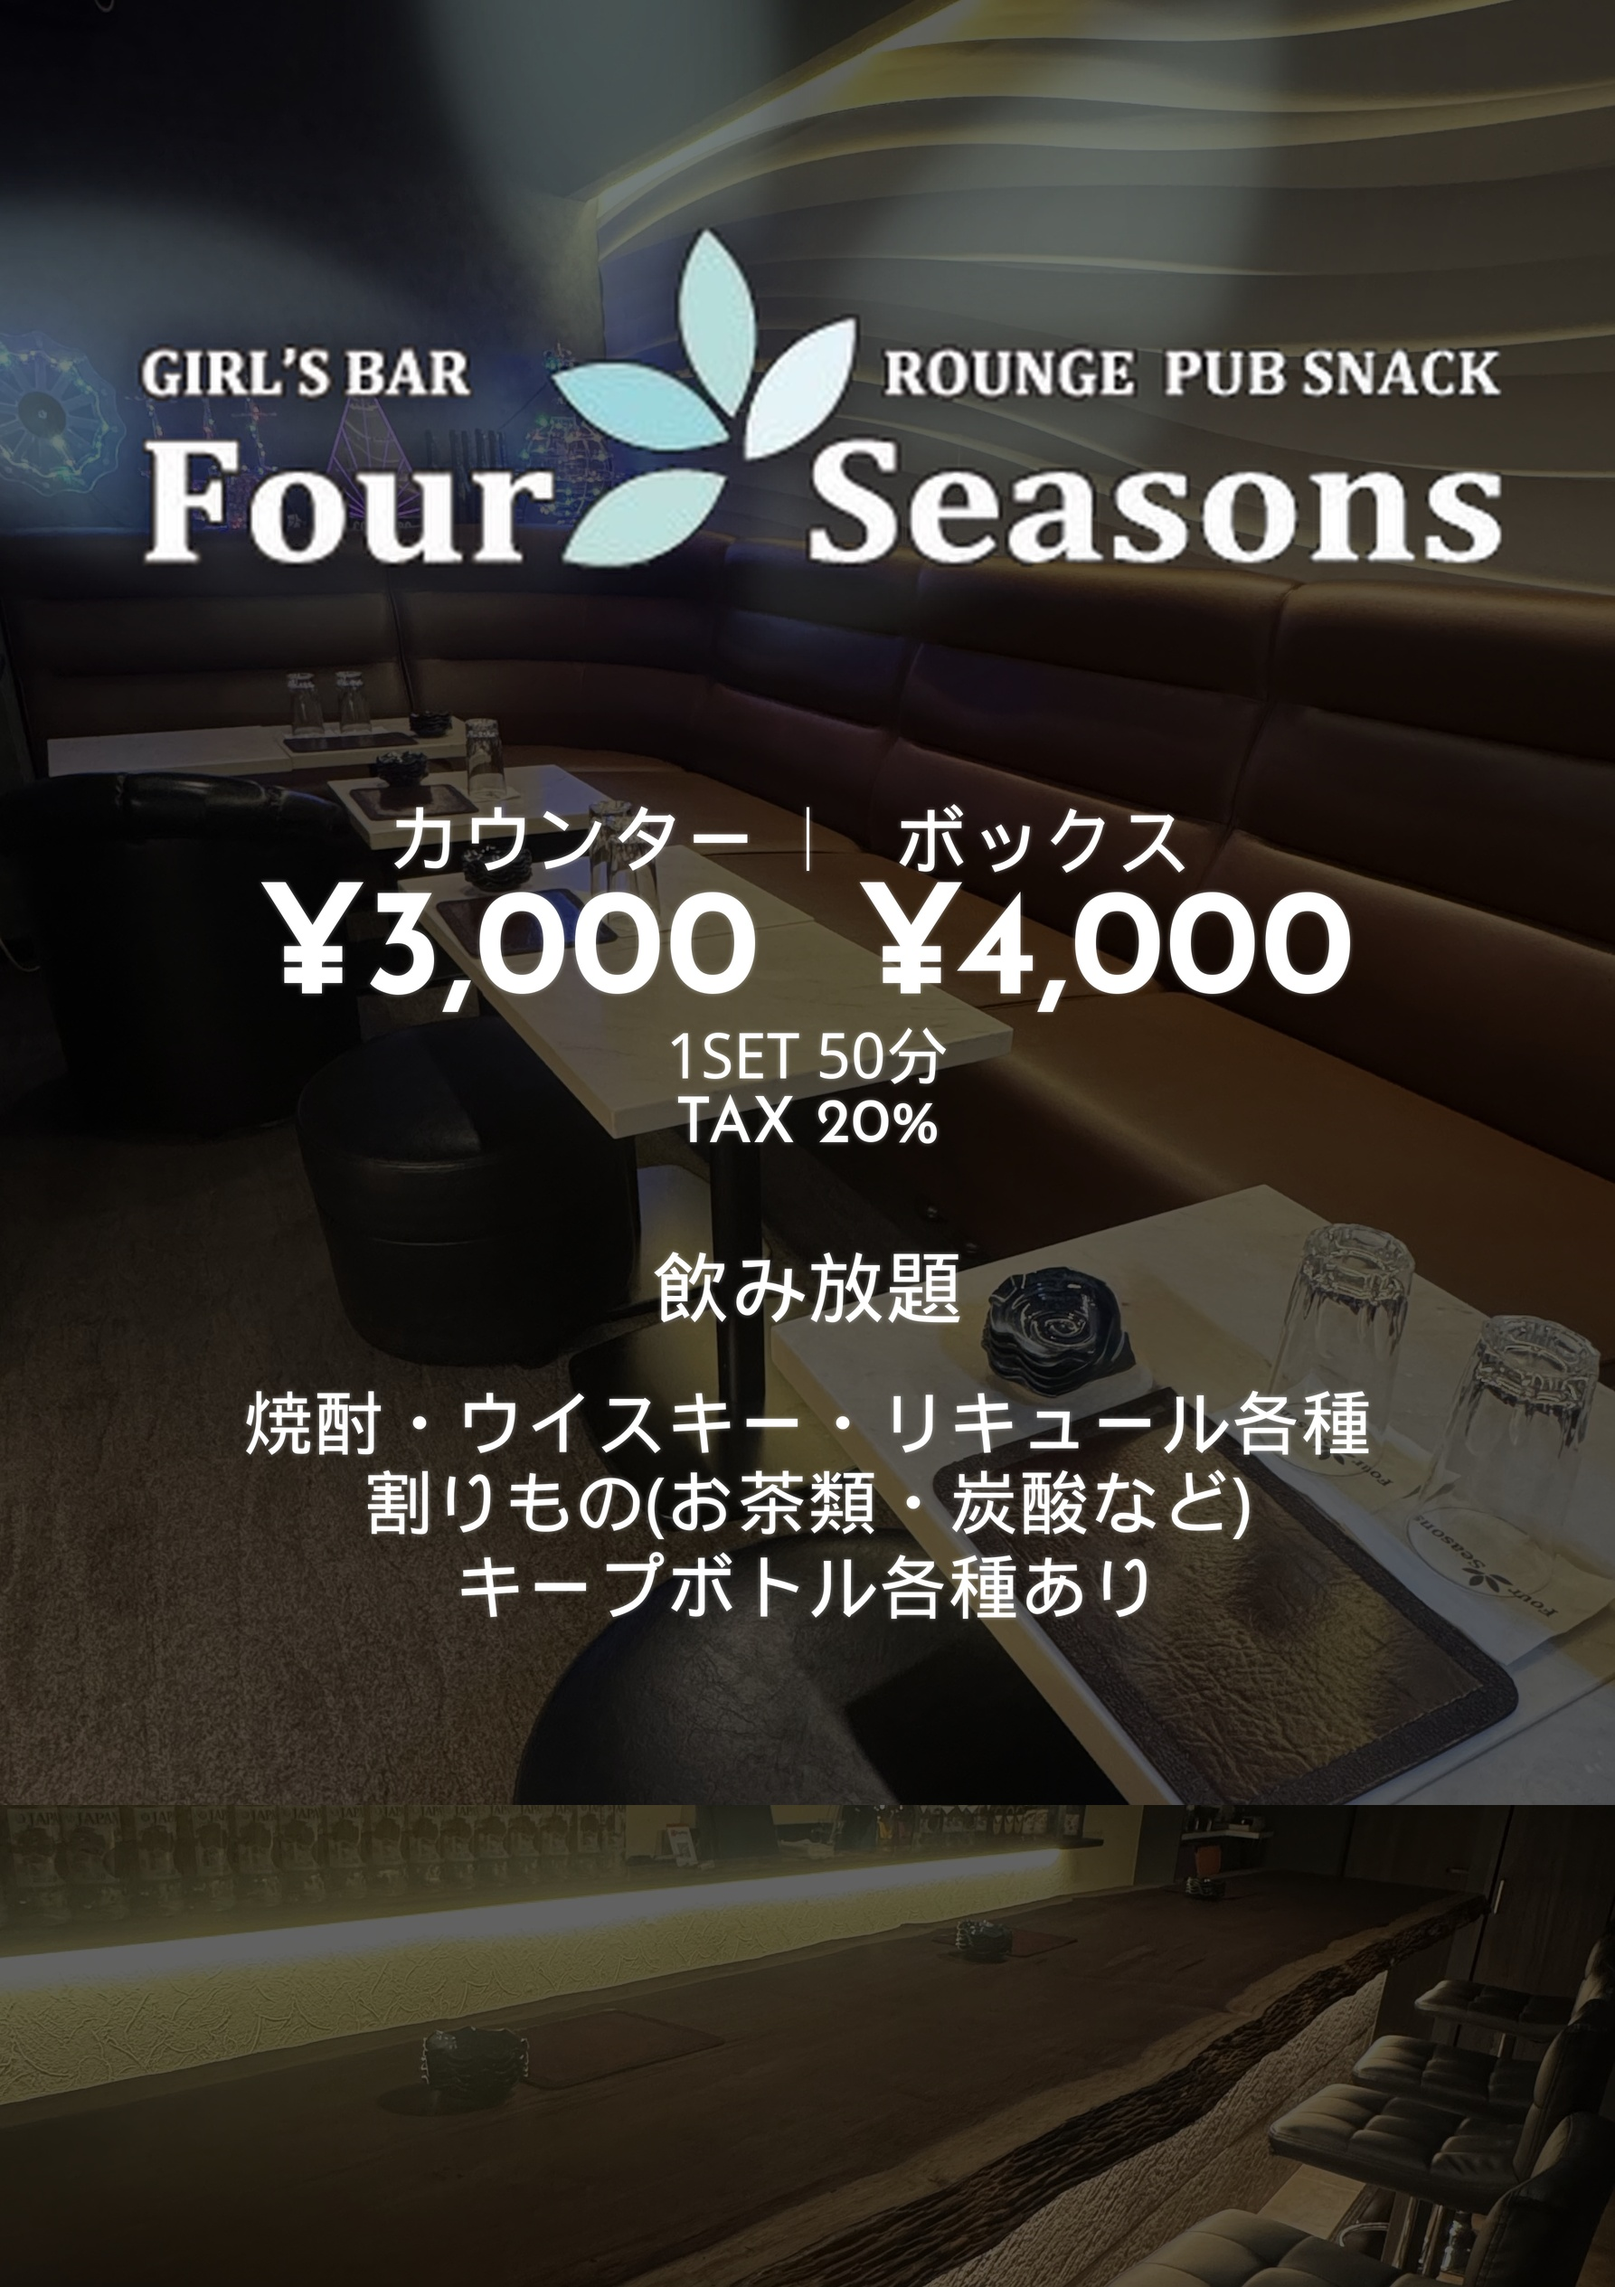
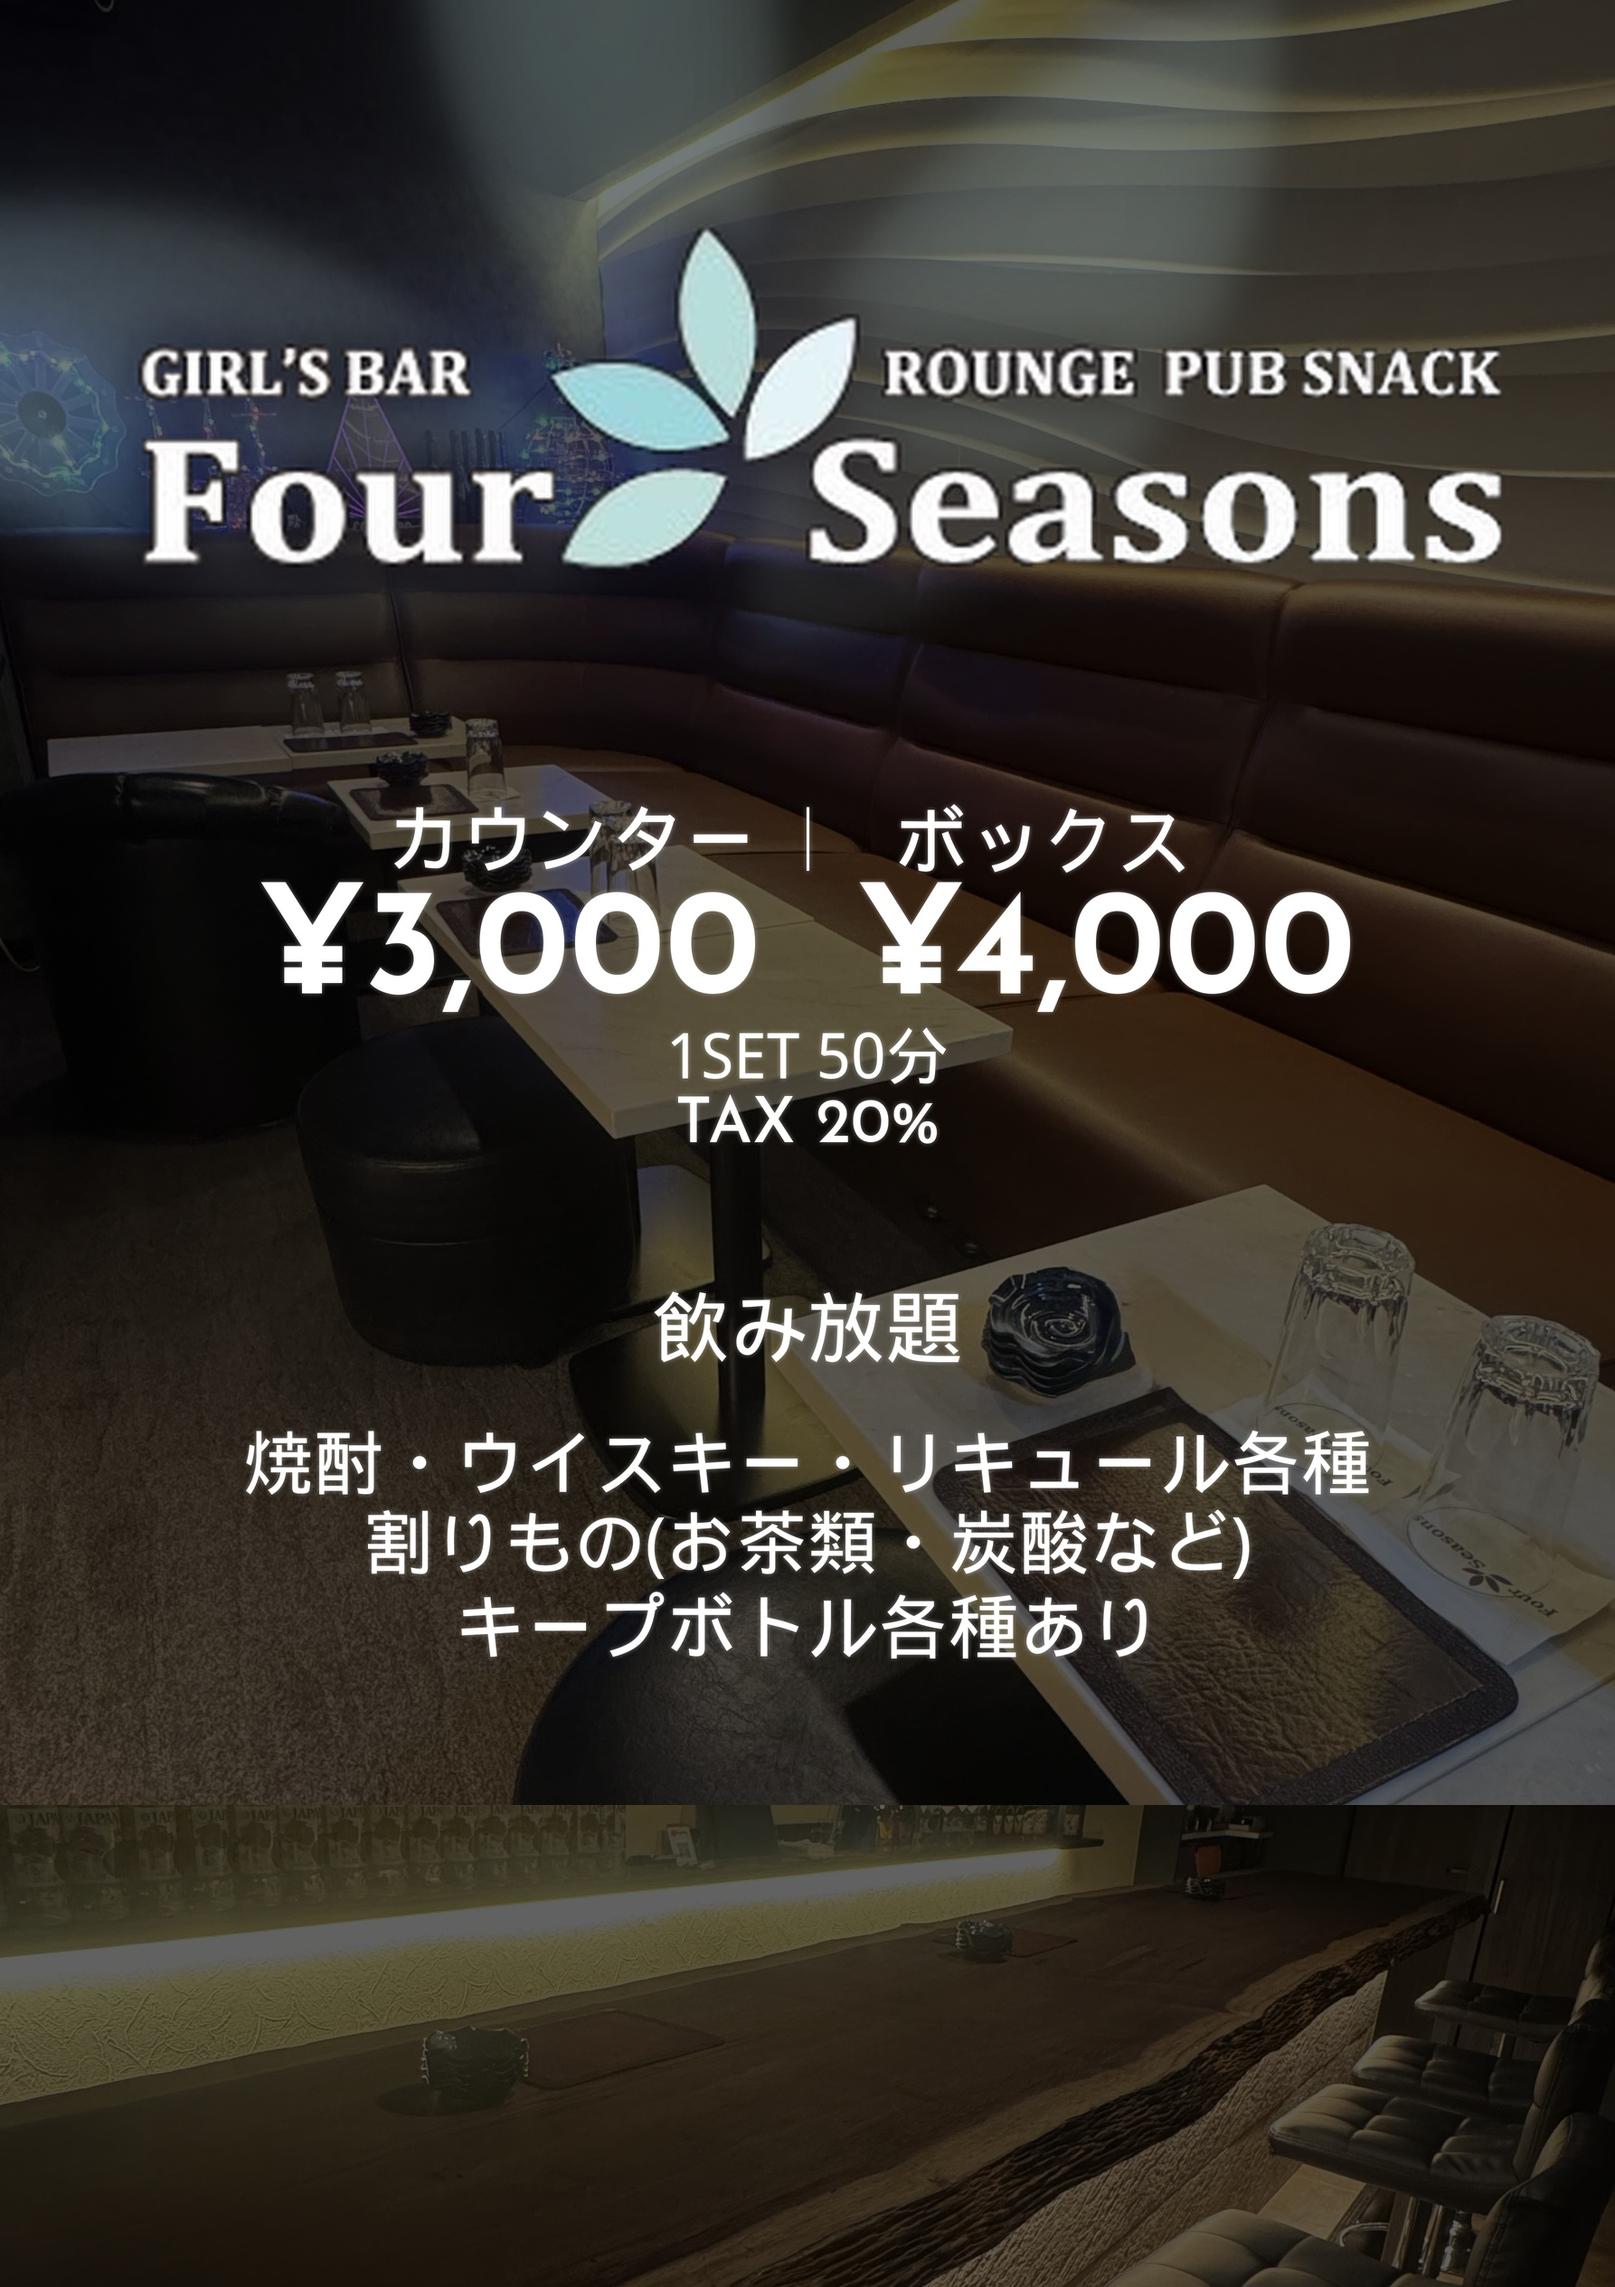
Widen gap between TAX and 飲み放題
Increase TAX→飲み放題 spacing beyond the prior 186px so the
text-layer layout breathes like the earlier preview.

Changed region(s): [[0.154, 0.531, 0.8623, 0.7497]]

diff --git a/Documents/フラット/FourSeasons_interior_A1/build_signage_preview.py b/Documents/フラット/FourSeasons_interior_A1/build_signage_preview.py
@@ -30,8 +30,8 @@ BOX = {"x0": 0.0922, "y0": 0.1240, "x1": 0.9211, "y1": 0.2920}
 MAIN_SCALE_BOOST = 1.02
 NUDGE_UP = 0.035
 TEXT_NUDGE_DOWN = 0.035
-# 以前プレビューの行間（中心間px / 2529）に合わせる
-TAX_TO_NOMI = 186 / 2529  # TAX → 飲み放題
+# 以前プレビューの行間を基準に、TAX→飲み放題は視認で少し広め
+TAX_TO_NOMI = 230 / 2529  # TAX → 飲み放題（以前186 + 余白）
 NOMI_GAP = 150 / 2529  # 飲み放題 → 詳細1行目
 LINE_GAP = 90 / 2529  # 詳細行どうし
 
